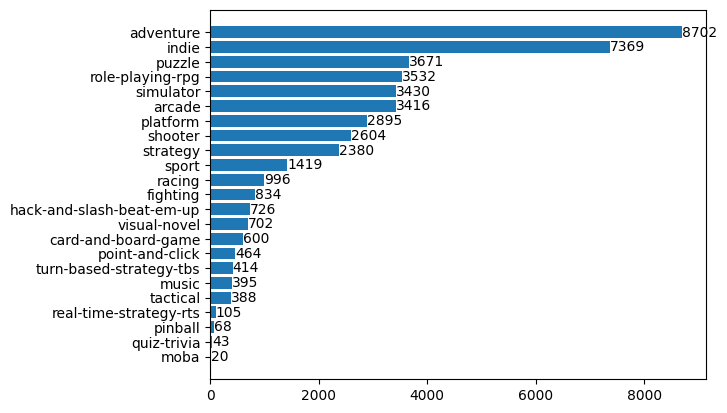
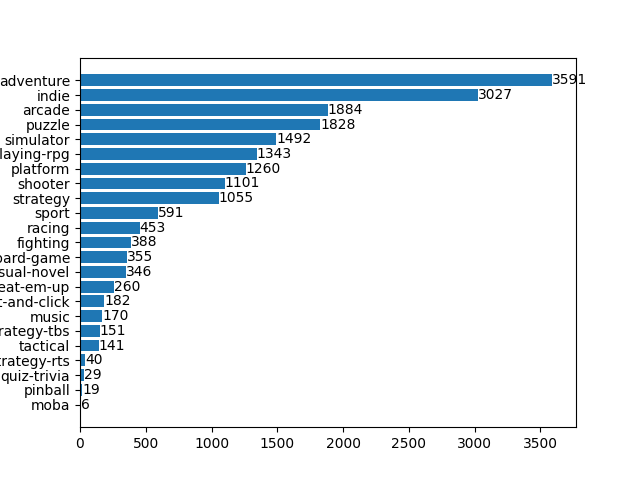
Update of data summary

Changed region(s): [[0.0, 0.0581, 1.0, 0.9879]]

diff --git a/scripts/eda/main.py b/scripts/eda/main.py
@@ -25,12 +25,15 @@ def get_dims(filepath: str) -> tuple:
     return altura, ancho, canales, filepath
 
 df = pd.read_csv(PATH_DATOS + "/games.csv")
-df["image_id"] = df["image_id"] + ".jpg"	
 p = Path(PATH_IMAGENES)
 
 images_list = list(p.glob('*.jpg'))
 images_names = [image.name for image in images_list]
 images_df = pd.DataFrame({"image_id": images_names, "image_path": images_list})
+
+### Preprocesamiento de datos
+df_preprocessed = preprocesamiento_datos(df.copy())
+df_preprocessed = df_preprocessed.merge(images_df, how = "inner", on = "image_id")
 
 # Extensiones archivos 
 extensiones_archivos = [path_imagen.suffix for path_imagen in images_list]
@@ -51,7 +54,7 @@ for image_name in images_list[:9]:
     plt.axis('off')
     contador_posicion+=1
 plt.savefig("docs/data/examples_covers.png")
-
+plt.close()
 # Datos faltantes
 imagenes = pd.DataFrame(set(images_names), columns=["image_id_img"])
 dataset = pd.DataFrame(set(df["image_id"]), columns=["image_id_dataset"])
@@ -81,7 +84,28 @@ df_tamanios_imagenes = pd.DataFrame(tamanios_imagenes,
 df_tamanios_imagenes.plot.scatter(x = 'Ancho', y = 'Altura')
 plt.title('Tamaño de las imágenes (en pixeles)')
 plt.savefig("docs/data/tamanio_imagenes.png")
+plt.close()
+# Variable objetivo - resumen de output
+genre_counts = df_preprocessed.explode("genres")["genres"].value_counts().sort_values(ascending=True) 
+plt.barh(genre_counts.index, genre_counts.values) 
+for i, count in enumerate(genre_counts.values): 
+    plt.text(count, i, str(count), ha='left', va='center') 
+plt.savefig("docs/data/genres_summary.png")
+plt.close()
 
+# Variable objetivo - resumen de output - limpio
+### Filtrando solo los primeros 12 géneros (tener suficiente volumen)
+df_test = df_preprocessed.copy()
+first_12_genres = df_test.explode("genres")["genres"].value_counts().index[:12]
+df_test["genres"] = df_test["genres"].apply(lambda x: [genre for genre in x if genre in first_12_genres])
+df_test = df_test[~df_test["genres"].apply(lambda x:len(x) == 0)]
+
+genre_counts = df_test.explode("genres")["genres"].value_counts().sort_values(ascending=True) 
+plt.barh(genre_counts.index, genre_counts.values) 
+for i, count in enumerate(genre_counts.values): 
+    plt.text(count, i, str(count), ha='left', va='center') 
+plt.savefig("docs/data/genres_summary_clean.png")
+plt.close()
 # Relacion entre variables explicativas y variable objetivo
 df_copy =  pd.read_csv(PATH_DATOS + "/games.csv")
 df_copy = preprocesamiento_datos(df_copy)
@@ -89,7 +113,7 @@ df_copy = preprocesamiento_datos(df_copy)
 images_df = pd.DataFrame({"image_id": images_names, "image_path": images_list})
 df_merged = df_copy.merge(images_df, how = "inner", on = "image_id")
 # Imagenes descargadas sin registro en metadatos
-fig = plt.figure(figsize=(20, 20))
+fig = plt.figure(figsize=(10, 15))
 
 # Definición valores de cantidad de filas y columnas subplot
 rows = 10
@@ -105,3 +129,4 @@ for _, row in df_merged.sample(9, random_state = 1).iterrows():
     plt.title(", ".join((row["genres"][:2])))
     contador_posicion+=1
 plt.savefig("docs/data/covers_with_labels.png")
+plt.close()

diff --git a/docs/data/data_summary.md b/docs/data/data_summary.md
@@ -49,6 +49,12 @@ Como se puede ver en el siguiente gráfico:
 Para tratar este desbalanceo, se buscará hacer dos cosas:
 * Remover los géneros que tengan menos importancia o sean más específicos y no generen valor. 
 * Usar class-weights en el entrenamiento del modelo para que así se puede mitigar el error. 
+
+Luego de quedarnos solo con el top 12 de los géneros, tenemos lo siguiente:
+![genres_summary_clean](genres_summary_clean.png)
+
+Adicionalmente, removemos todos aquellos registros que al quedarnos con solo el top 12 de los géneros no tienen ningún género asignado. Para al final quedarnos con 6916 registros.
+
 ## Variables individuales
 En este caso, las variables que explicarán el género son las imágenes. Para poder observar cómo se comportan los tamaños se hace el siguiente gráfico.
 ![tamanio_imagenes](tamanio_imagenes.png)
